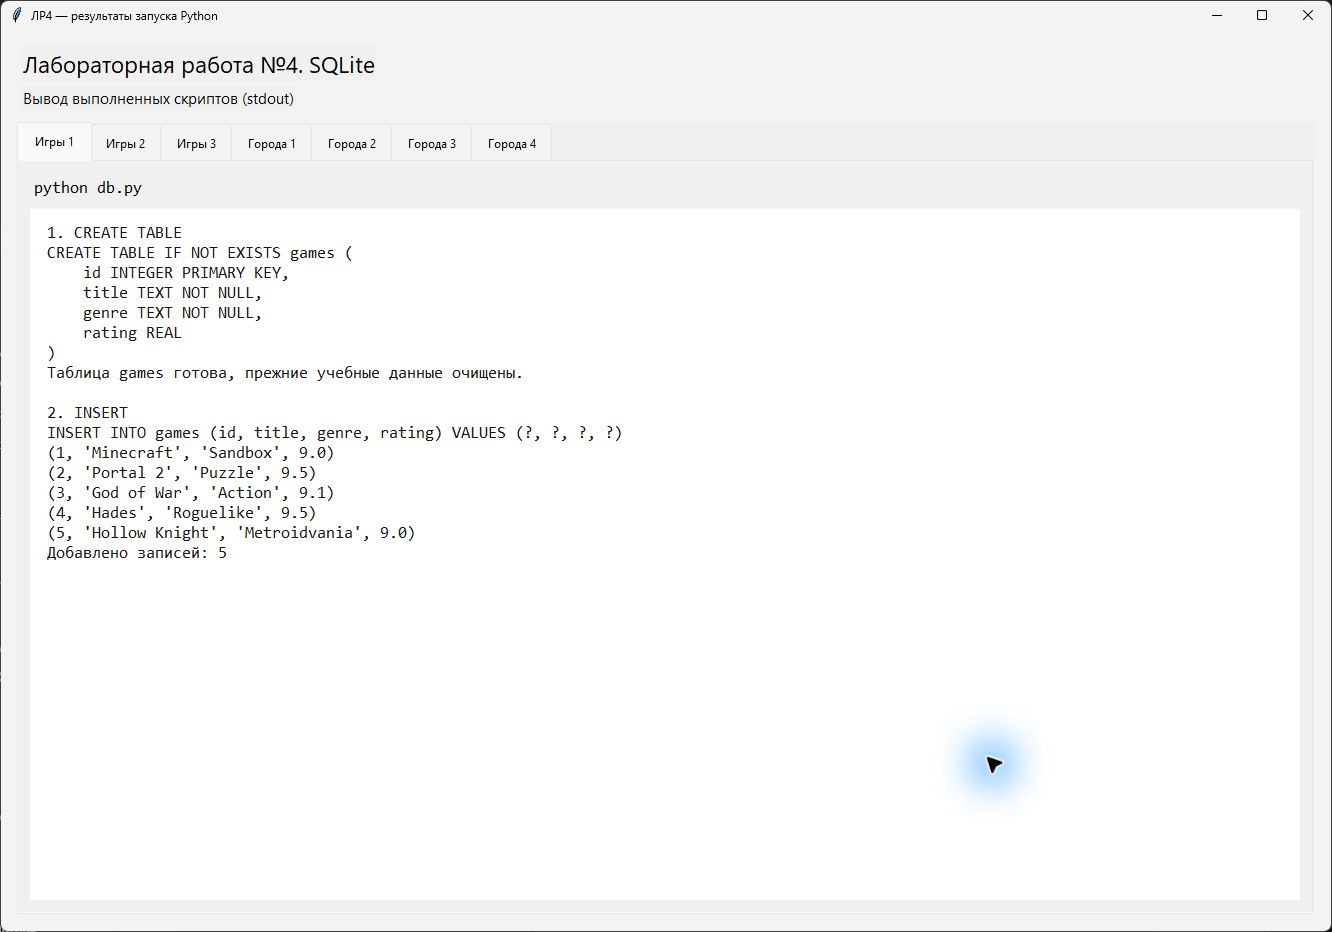
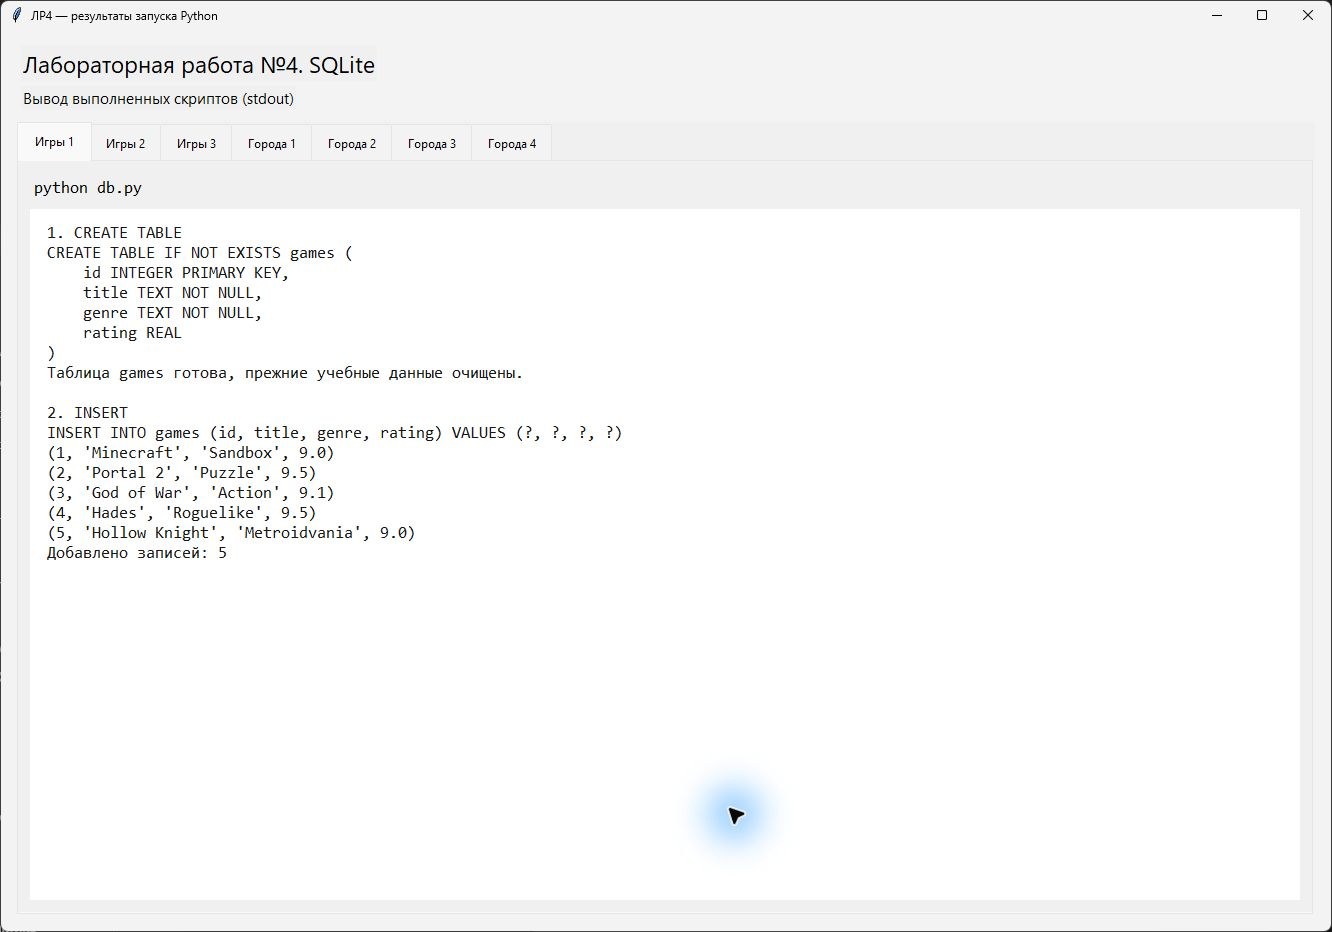
35

Changed region(s): [[0.708, 0.7779, 0.7695, 0.8712], [0.5233, 0.8401, 0.5848, 0.9335]]

diff --git a/lab4-sql-basics/README.md b/lab4-sql-basics/README.md
@@ -35,18 +35,21 @@ python example.py
 
 [Код примера с городами](example.py). Создаётся таблица `cities` с полями `id`, `name`, `population`, `country`, `area`. Добавляются Москва, Санкт-Петербург, Новосибирск, Екатеринбург, Казань и Алматы.
 
-Проверены запросы из примера методички:
+Создание таблицы, добавление шести городов и выборка всех записей:
 
-| Запрос | Результат |
-| --- | --- |
-| `SELECT * FROM cities` | Все 6 городов |
-| `WHERE population > 1500000` | Москва, Санкт-Петербург, Новосибирск, Алматы |
-| `ORDER BY population DESC` | Москва, Санкт-Петербург, Алматы, Новосибирск, Екатеринбург, Казань |
-| `LIMIT 3` | Москва, Санкт-Петербург, Новосибирск |
-| `UPDATE cities SET population = 13500000 WHERE id = 1` | Население Москвы изменено |
-| `DELETE FROM cities WHERE id = 6` | Алматы удалён |
-| `COUNT`, `SUM`, `AVG`, `MAX`, `MIN` | 5; 23450000; 4690000; 13500000; 1250000 |
-| `WHERE name LIKE '%бург%'` | Санкт-Петербург, Екатеринбург |
+![Создание и заполнение таблицы городов](screenshots/cities-create-select.png)
+
+Фильтрация по населению и сортировка по убыванию:
+
+![Фильтрация и сортировка городов](screenshots/cities-filter-sort.png)
+
+Выборка первых трёх городов, изменение населения Москвы и удаление Алматы:
+
+![Ограничение выборки, изменение и удаление городов](screenshots/cities-limit-update-delete.png)
+
+Статистика и поиск по подстроке «бург»:
+
+![Статистика и поиск городов](screenshots/cities-statistics-search.png)
 
 ## Индивидуальное задание
 
@@ -56,27 +59,13 @@ python example.py
 
 ![Создание таблицы и добавление пяти игр](screenshots/create-insert.png)
 
-Фильтр `SELECT * FROM games WHERE rating >= ?` с параметром `9.2` возвращает:
+Выборка всех игр и фильтр `WHERE rating >= ?` с параметром `9.2`. Условию соответствуют Portal 2 и Hades:
 
-```text
-(2, 'Portal 2', 'Puzzle', 9.5)
-(4, 'Hades', 'Roguelike', 9.5)
-```
+![Все игры и фильтрация по рейтингу](screenshots/select-where.png)
 
-Запрос `UPDATE games SET rating = ? WHERE id = ?` с параметрами `(9.2, 1)` изменяет только Minecraft:
+Через UPDATE рейтинг Minecraft изменён с 9.0 на 9.2. Через DELETE удалена игра с ID 5 — Hollow Knight. Осталось четыре записи:
 
-```text
-(1, 'Minecraft', 'Sandbox', 9.2)
-```
-
-Запрос `DELETE FROM games WHERE id = ?` с параметром `5` удаляет Hollow Knight. Итоговая таблица:
-
-```text
-(1, 'Minecraft', 'Sandbox', 9.2)
-(2, 'Portal 2', 'Puzzle', 9.5)
-(3, 'God of War', 'Action', 9.1)
-(4, 'Hades', 'Roguelike', 9.5)
-```
+![Изменение и удаление игры](screenshots/update-delete.png)
 
 ## Контрольные вопросы
 

diff --git a/README.md b/README.md
@@ -12,4 +12,4 @@
 - [Лабораторная работа №3](lab3/README.md)
 - [Лабораторная работа №4 - SQL и SQLite](lab4-sql-basics/README.md)
 
-ЛР1 оформлена. ЛР2 выполнена на среднем уровне, ЛР3 - на базовом. Для ЛР4 подготовлены код базового уровня и отчёт; скриншоты добавлены частично. Материалы находятся в папках работ.
+ЛР1 оформлена. ЛР2 выполнена на среднем уровне, ЛР3 и ЛР4 - на базовом. Код, отчёты и скриншоты находятся в папках работ.
